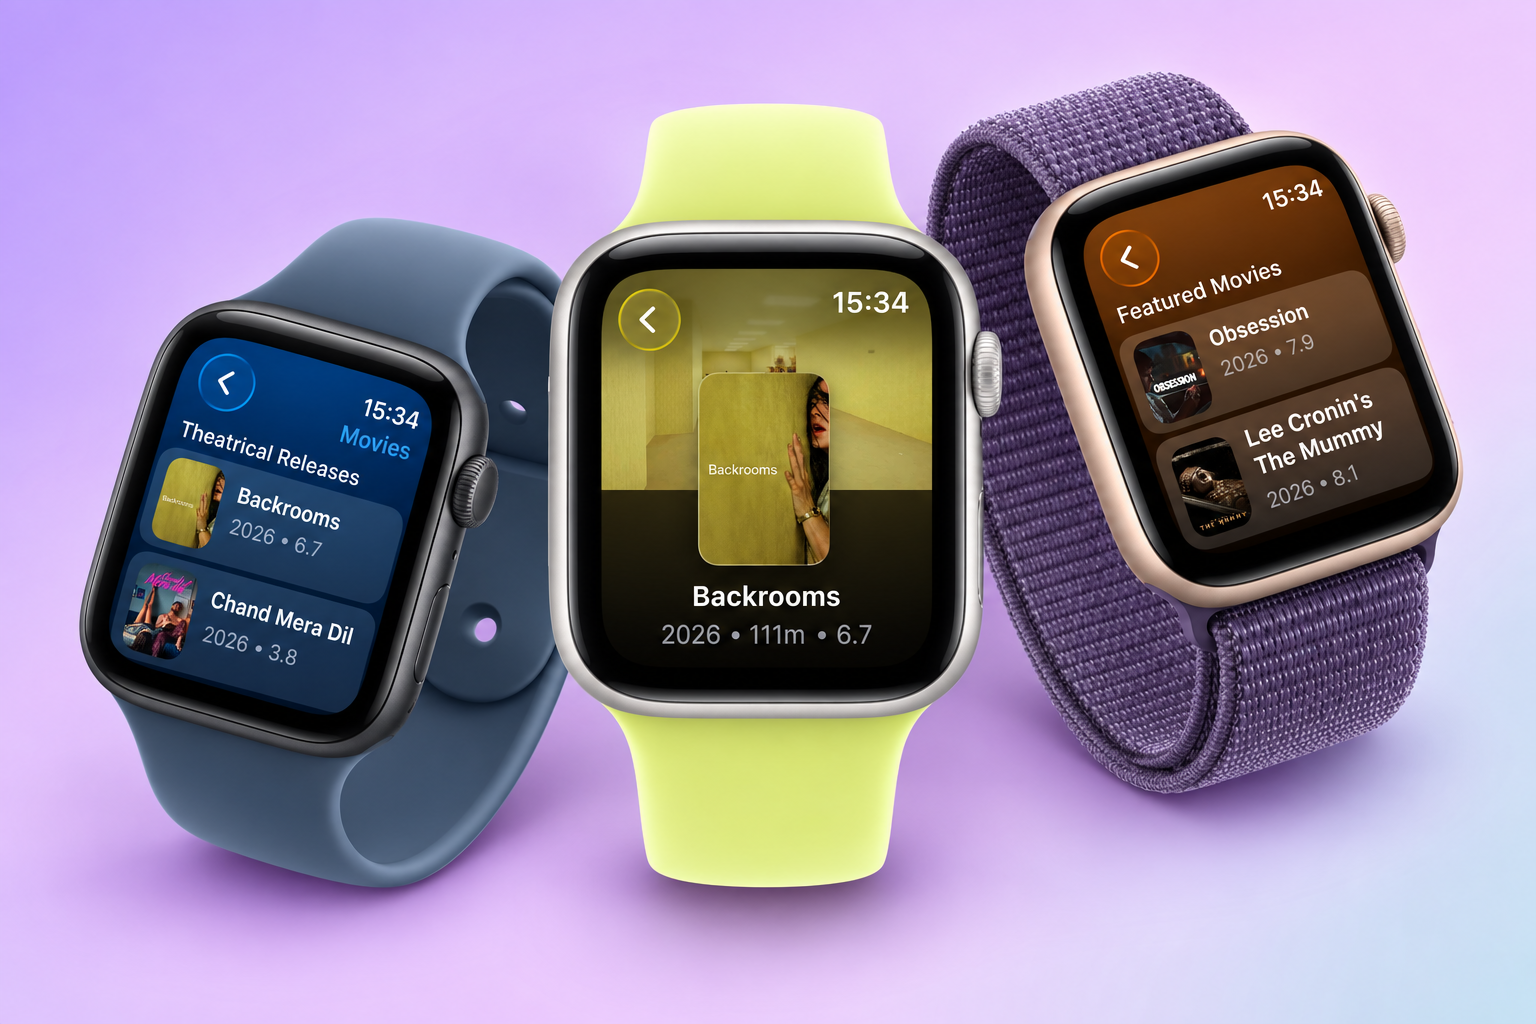
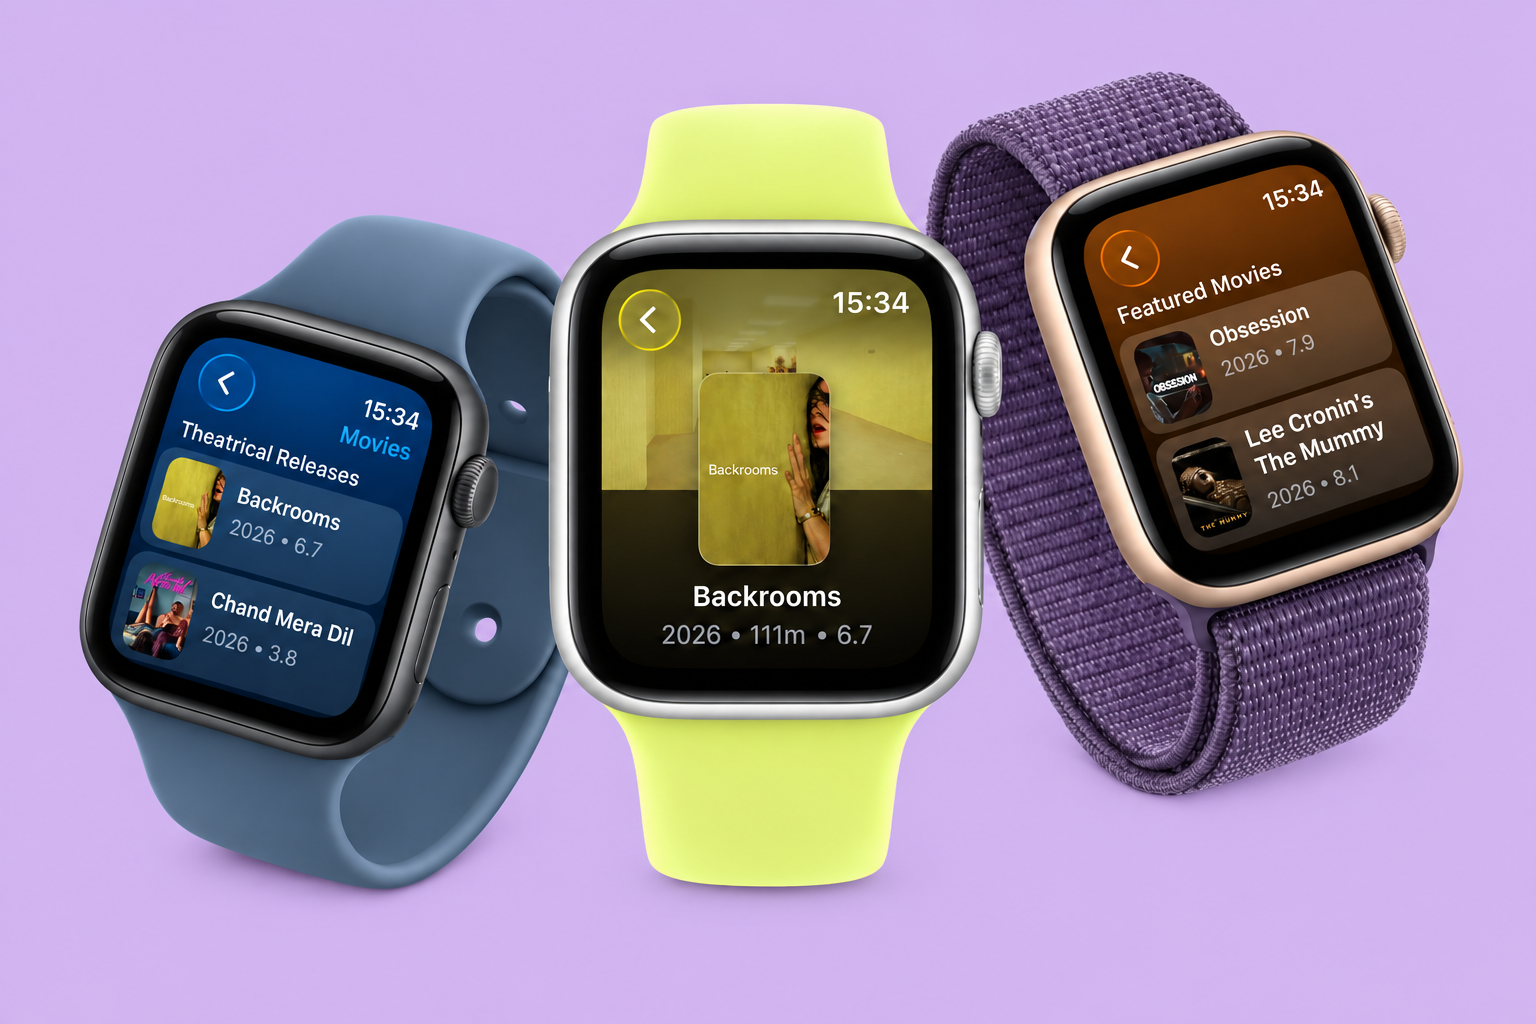
Use flat lilac Watch background with softer shadows

diff --git a/index.html b/index.html
@@ -142,7 +142,7 @@
                         </div>
                     </div>
                     <div class="device-slide" role="group" aria-roledescription="slide" aria-label="2 of 4">
-                        <img src="assets/watch-showcase.png" width="1536" height="1024" alt="Three layered Apple Watches showing Binge’s theatrical releases, Backrooms details, and featured movies" loading="lazy" decoding="async">
+                        <img src="assets/watch-showcase.png?v=2" width="1536" height="1024" alt="Three layered Apple Watches showing Binge’s theatrical releases, Backrooms details, and featured movies" loading="lazy" decoding="async">
                     </div>
                     <div class="device-slide" role="group" aria-roledescription="slide" aria-label="3 of 4">
                         <div class="product-mockup product-mockup--imac">
